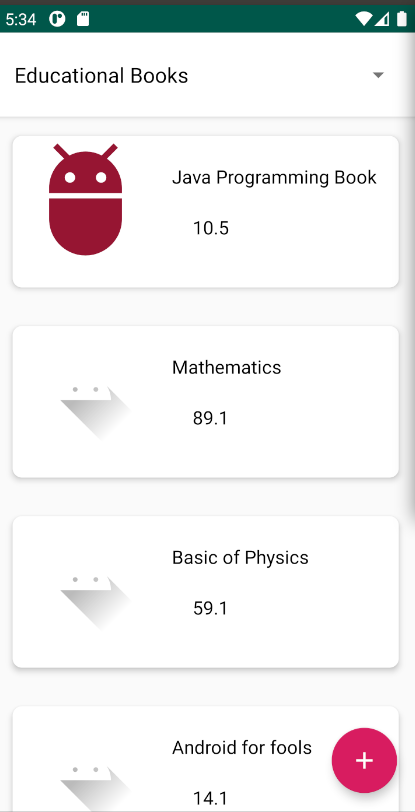
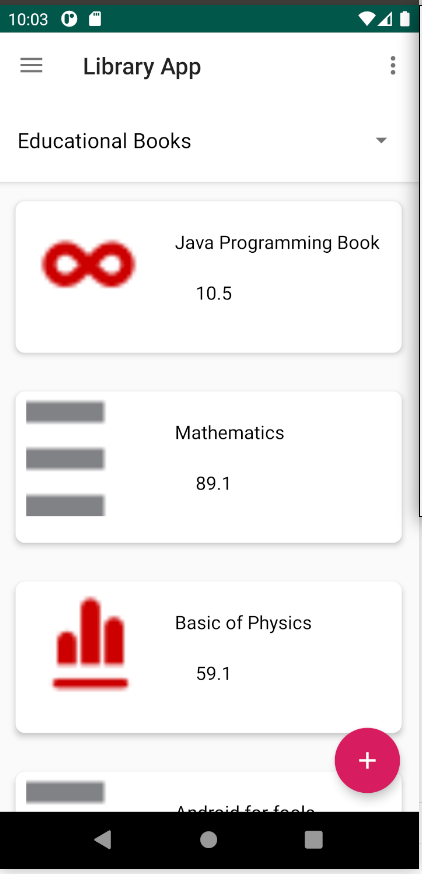
Menu V1.1

diff --git a/app/src/main/java/com/sample/libraryapplication/utils/MyMQTTHandler.kt b/app/src/main/java/com/sample/libraryapplication/utils/MyMQTTHandler.kt
@@ -6,6 +6,7 @@ import com.google.gson.GsonBuilder
 import com.sample.libraryapplication.LibraryApplication
 import com.sample.libraryapplication.bo.BOBook
 import com.sample.libraryapplication.bo.BOCategory
+import com.sample.libraryapplication.database.DBPopulator
 import com.sample.libraryapplication.database.entity.BookEntity
 import com.sample.libraryapplication.database.entity.CategoryEntity
 import com.sample.libraryapplication.view.BookListActivity
@@ -36,13 +37,11 @@ class MyMQTTHandler @Inject constructor() : MqttClientHelper() {
     fun connect(context: Context){
         this.context = context
          if ( myPrefs.contains(BROKER_PREFS) == false){
-             val prefMap = mapOf<String,String>(BROKER_PREFS to myPrefs.getString(BROKER_PREFS,default_broker),
-                                                                 TOPIC_PREFS to myPrefs.getString(TOPIC_PREFS,default_topic))
-             myPrefs.save(prefMap);
+             myPrefs.save(mapOf<String,String>(BROKER_PREFS to default_broker, TOPIC_PREFS to default_topic));
          }
 
-        topicHandlers.add( TopicHandler(myPrefs.getString(BROKER_PREFS)))
-        connect(context,myPrefs.getString(TOPIC_PREFS))
+        topicHandlers.add( TopicHandler(myPrefs.getString(TOPIC_PREFS)))
+        connect(context,myPrefs.getString(BROKER_PREFS))
     }
     override fun onConnectComplete(reconnect: Boolean, serverURI: String?){
         topicHandlers.forEach({
@@ -64,6 +63,7 @@ class MyMQTTHandler @Inject constructor() : MqttClientHelper() {
         Log.d(BookListActivity.TAG, "Receive MQTTMessage: $json---> on Topic:$topic")
 
         var th = topicHandlers.find { it.topic.equals(topic) }
+        //route to topic's message handler if one was provided, else use the default implementation
         if ( th?.messageCallBack != null){
             th.messageCallBack!!(topic!!,message)
             return;
@@ -75,6 +75,10 @@ class MyMQTTHandler @Inject constructor() : MqttClientHelper() {
                     val book = gson.fromJson(actionEvent.data, BookEntity::class.java)
 
                     Log.d(BookListActivity.TAG, "book: \"${book.bookName}\" has been received")
+                    book.resourceId = if (book.resourceId >=0 && book.resourceId <DBPopulator.bookResources.size)
+                                           DBPopulator.bookResources[book.resourceId]
+                                      else
+                                            book.resourceId
                     when (actionEvent.actionEvent) {
                         ActionEvent.INSERT_BOOK_AE->boBook.setEntity(book).insert()
                         ActionEvent.UPDATE_BOOK_AE->boBook.setEntity(book).update()

diff --git a/app/src/main/java/com/sample/libraryapplication/view/BookListActivity.kt b/app/src/main/java/com/sample/libraryapplication/view/BookListActivity.kt
@@ -131,21 +131,7 @@ class BookListActivity : AppCompatActivity() {
     }
     data class DataModel(var icon: Int, var name: String)
     lateinit var drawerItemTitles: Array<String>
-    inner class DrawerItemClickListener : AdapterView.OnItemClickListener {
-        override fun onItemClick(parent: AdapterView<*>?, view: View?, position: Int, id: Long) {
-            selectItem(position)
-        }
-    }
 
-    private fun selectItem(position: Int) {
-        Log.d(TAG, "onOptionsItemSelected: Item $position was clicked")
-
-        binding.leftDrawer.setItemChecked(position, true)
-        binding.leftDrawer.setSelection(position)
-        binding.drawerLayout.closeDrawer(binding.leftDrawer)
-        setTitle(drawerItemTitles[position])
-
-    }
     private fun setBinding() {
         binding = ActivityBookListBinding.inflate(layoutInflater)
         binding.viewModel = bookListViewModel
@@ -158,8 +144,6 @@ class BookListActivity : AppCompatActivity() {
             return@OnMenuItemClickListener true
         })
 
-
-
         val drawerItem= mutableListOf<DataModel>()
         drawerItemTitles= getResources().getStringArray(R.array.navigation_drawer_items_array);
         drawerItem.add( DataModel(R.drawable.connect, drawerItemTitles[0]) )
@@ -168,13 +152,24 @@ class BookListActivity : AppCompatActivity() {
 
         val adapter = DrawerItemCustomAdapter(this, R.layout.menu_view_item_row, drawerItem)
         binding.leftDrawer.adapter =adapter
-        binding.leftDrawer.onItemClickListener = DrawerItemClickListener()
-//        setSupportActionBar(binding.topAppBar);
+        binding.leftDrawer.onItemClickListener =  object: AdapterView.OnItemClickListener {
+            override fun onItemClick(parent: AdapterView<*>?, view: View?, position: Int, id: Long) {
+                selectItem(position)
+            }
+        }
         var toggle = ActionBarDrawerToggle(this,  binding.drawerLayout, binding.topAppBar, R.string.app_name, R.string.app_name )
         toggle.syncState()
         binding.drawerLayout.addDrawerListener(toggle)
-//        supportActionBar?.setDisplayShowTitleEnabled(true);
         setContentView(binding.root)
+    }
+    private fun selectItem(position: Int) {
+        Log.d(TAG, "onOptionsItemSelected: Item $position was clicked")
+
+        binding.leftDrawer.setItemChecked(position, true)
+        binding.leftDrawer.setSelection(position)
+        binding.drawerLayout.closeDrawer(binding.leftDrawer)
+        setTitle(drawerItemTitles[position])
+
     }
     fun updateBookList(category: CategoryEntity) {
         selectedCategory=category

diff --git a/app/src/main/java/com/sample/libraryapplication/database/DBPopulator.kt b/app/src/main/java/com/sample/libraryapplication/database/DBPopulator.kt
@@ -26,6 +26,9 @@ import javax.inject.Singleton
 
 @Singleton
 class DBPopulator @Inject constructor() {
+    companion object{
+        val bookResources = intArrayOf(R.drawable.connect, R.drawable.ic_drawer, R.drawable.table,R.drawable.ic_launcher_background,R.drawable.ic_baseline_dehaze_24)
+    }
     private val TAG = "DBPopulator"
     init {
         LibraryApplication.instance.libraryComponent.inject(this)
@@ -48,7 +51,6 @@ class DBPopulator @Inject constructor() {
     }
     fun populateDB() {
         dbPopulated.postValue(true)
-        val bookResources = intArrayOf(R.drawable.ic_baseline_adb_24, R.drawable.ic_launcher_foreground, R.drawable.ic_launcher_background)
   //        val gson = GsonBuilder().serializeNulls().create()
         LibraryApplication.instance.libraryComponent.inject(this)
 

diff --git a/app/src/main/java/com/sample/libraryapplication/utils/MqttClientHelper.kt b/app/src/main/java/com/sample/libraryapplication/utils/MqttClientHelper.kt
@@ -48,15 +48,15 @@ abstract class MqttClientHelper() {
         try {
             client.connect(mqttConnectOptions,null,object: IMqttActionListener{
                 override fun onSuccess(asyncActionToken: IMqttToken?) {
-                    Log.d(TAG, "onSuccess: ")
+                    Log.d(TAG, "onSuccess: MQTT Client connected to $broker")
                 }
                override fun onFailure(asyncActionToken: IMqttToken?, exception: Throwable?) {
-                    Log.d(TAG, "onFailure: ")
+                   Log.e(TAG, "Failed to connect to $broker",exception)
                 }
             })
         }
         catch(t: Throwable){
-            Log.e(TAG, "connect: ${t.message}")
+            Log.e(TAG, "MQTT connection failure: ${t.message}", t)
         }
     }
 
